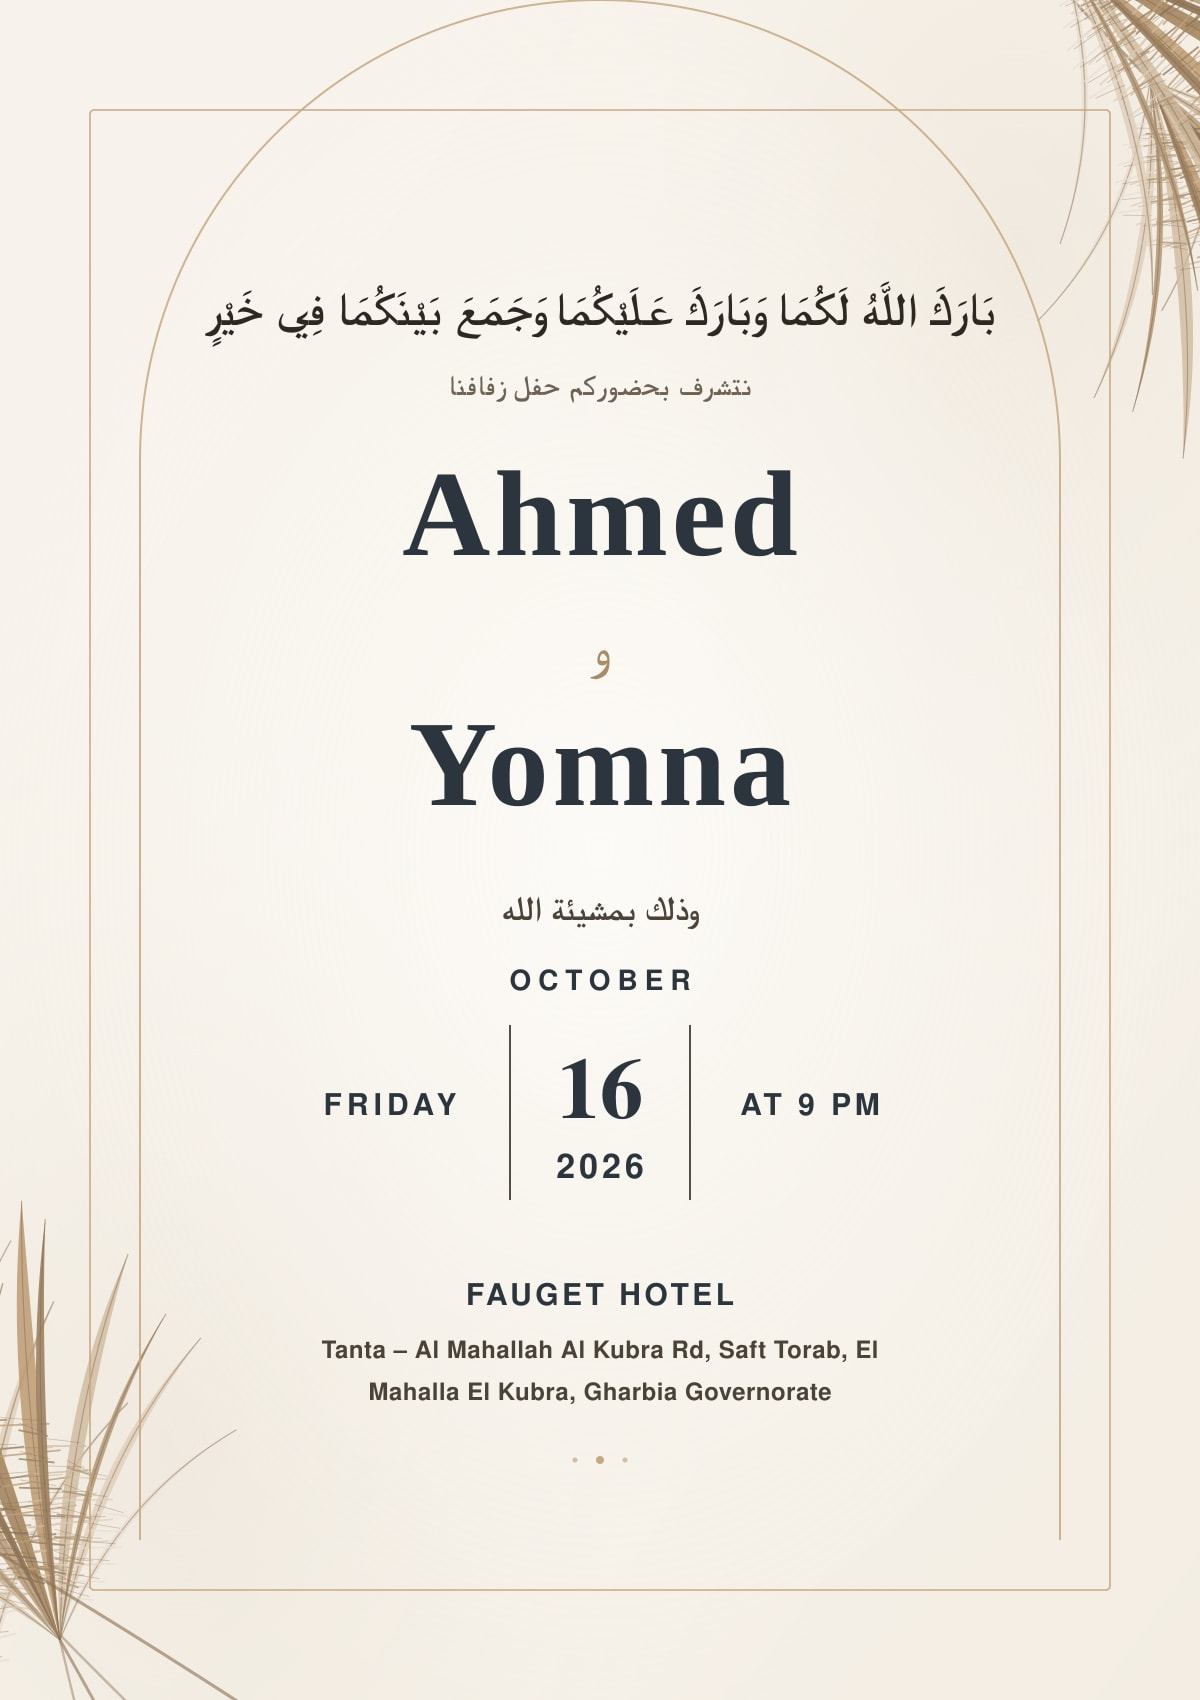
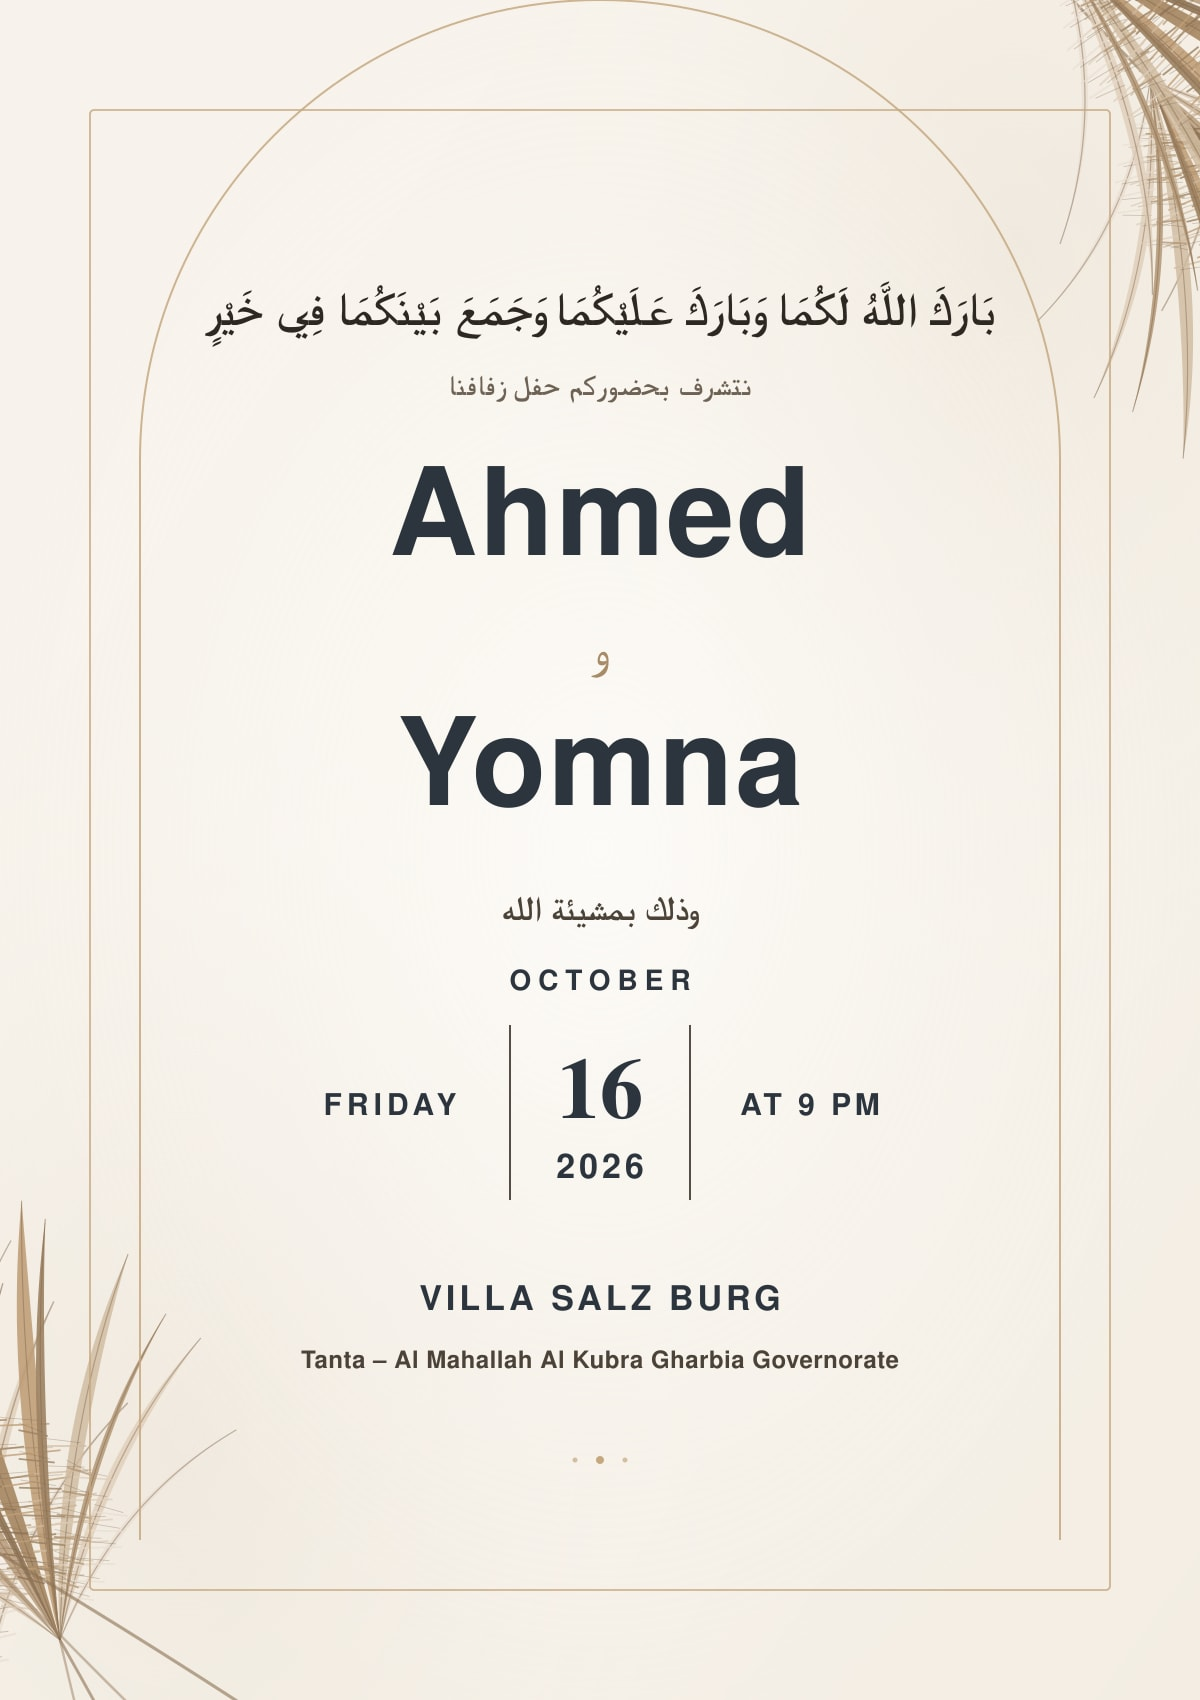
refactor: update wedding venue details
Update venue name to VILLA SALZ BURG and adjust address for accuracy across metadata and UI components.

Changed region(s): [[0.2467, 0.7482, 0.74, 0.8418], [0.3083, 0.2494, 0.6783, 0.3429], [0.3392, 0.4053, 0.6783, 0.4988]]

diff --git a/src/components/WeddingCard.tsx b/src/components/WeddingCard.tsx
@@ -12,7 +12,7 @@ interface WeddingCardProps {
 
 export default function WeddingCard({ onRSVPClick }: WeddingCardProps) {
   const [copied, setCopied] = useState(false);
-  const addressDetails = "FAUGET HOTEL, Tanta - Al Mahallah Al Kubra Rd, Saft Torab, El Mahalla El Kubra, Gharbia Governorate";
+  const addressDetails = "VILLA SALZ BURG, Tanta - Al Mahallah Al Kubra, Gharbia Governorate";
 
   const handleCopyAddress = () => {
     navigator.clipboard.writeText(addressDetails);
@@ -218,14 +218,14 @@ export default function WeddingCard({ onRSVPClick }: WeddingCardProps) {
 
           {/* Location description */}
           <div className="mt-5 mb-5 max-w-sm flex flex-col items-center">
-            <span className="text-olive-medium font-serif text-sm font-extrabold tracking-wider mb-1">
-              FAUGET HOTEL
+            <span className="text-olive-medium font-serif text-sm md:text-base font-extrabold tracking-wider mb-1">
+              VILLA SALZ BURG
             </span>
             <div className="flex items-center justify-center gap-1.5 text-gold-dark mb-1">
               <MapPin className="h-4 w-4 animate-bounce" />
             </div>
             <p className="text-[#4e5d48] font-sans text-xs md:text-[13px] leading-relaxed font-bold px-2">
-              Tanta – Al Mahallah Al Kubra Rd, Saft Torab, El Mahalla El Kubra, Gharbia Governorate
+              Tanta – Al Mahallah Al Kubra  Gharbia Governorate
             </p>
           </div>
 

diff --git a/index.html b/index.html
@@ -15,7 +15,7 @@
     <meta property="og:url" content="https://invition-tau.vercel.app/" />
     <meta property="og:site_name" content="دعوة زفاف أحمد ويمنى" />
     <meta property="og:title" content="دعوة زفاف أحمد ويمنى | Ahmed &amp; Yomna Wedding" />
-    <meta property="og:description" content="يسعدنا ويشرفنا دعوتكم لحضور حفل زفافنا ومشاركتنا أجمل لحظات العمر يوم الجمعة 16 أكتوبر 2026 بفندق فاجيت." />
+    <meta property="og:description" content="يسعدنا ويشرفنا دعوتكم لحضور حفل زفافنا ومشاركتنا أجمل لحظات العمر يوم الجمعة 16 أكتوبر 2026 بـ VILLA SALZ BURG - طريق طنطا المحلة الكبرى." />
     
     <!-- Primary WhatsApp Image (1200x630 JPEG < 100KB for instant preview) -->
     <meta property="og:image" content="https://invition-tau.vercel.app/og-image.jpg" />
